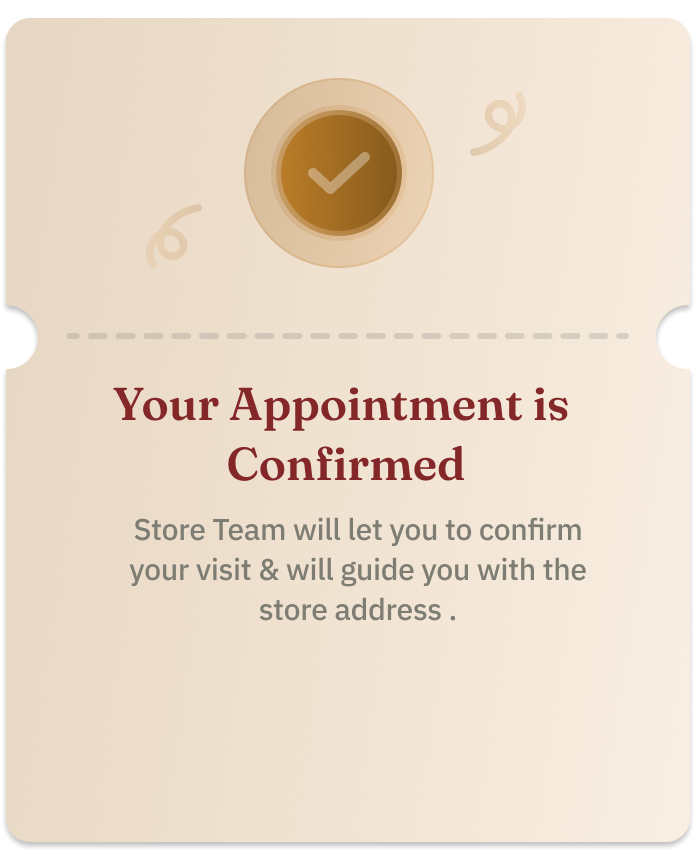
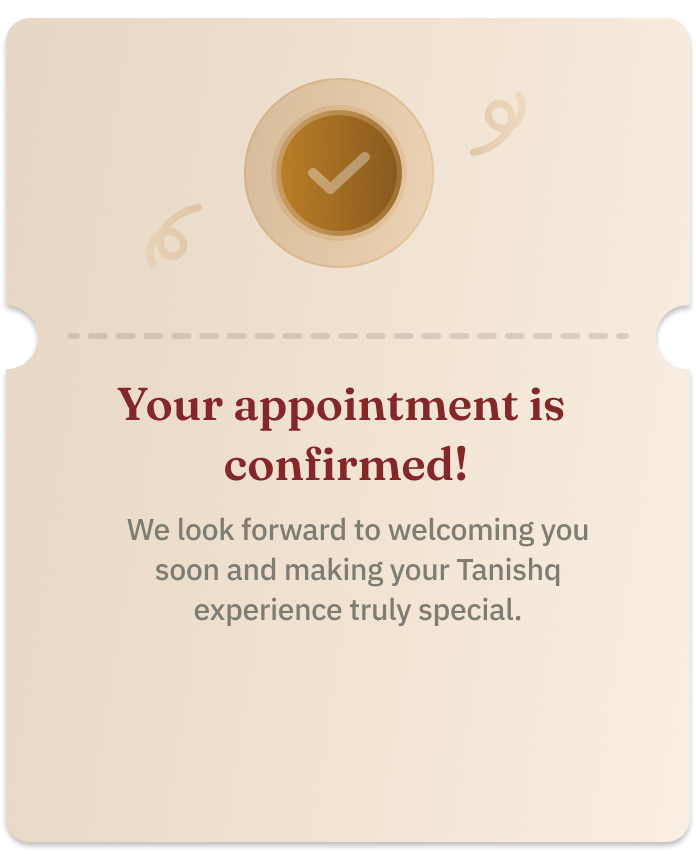
bap content image updated and deep store bap issue fixed

Changed region(s): [[0.181, 0.6089, 0.8448, 0.7307], [0.1509, 0.4567, 0.8147, 0.5785]]

diff --git a/src/pages/detail.jsx b/src/pages/detail.jsx
@@ -513,7 +513,7 @@ export default function Detailed() {
                             </div>
                           
                             <div className="md:w-[45%] md:h-full h-[300px]  MapWrapper md:my-0 my-5 w-[90%]">
-                            {storeDetail.storeClosingTime && <BookAnAppointment openingTime={storeDetail.modifiedOpeningTime} isOpen={BookAnAppointmentModal} storeCode={storeDetail.storeCode} storeName={storeDetail.storeName} setisOpen={setBookAnAppointmentModal} closingTime={storeDetail.modifiedClosingTime}/>}
+                            {storeDetail.modifiedClosingTime && <BookAnAppointment storeName={storename} openingTime={storeDetail.modifiedOpeningTime} isOpen={BookAnAppointmentModal} storeCode={storeDetail.storeCode} storeName={storeDetail.storeName} setisOpen={setBookAnAppointmentModal} closingTime={storeDetail.modifiedClosingTime}/>}
                                
                                 {((storeDetail.storeLatitude&&!isNaN(storeDetail.storeLatitude)||(storeDetail.storeLatitude&&!isNaN(storeDetail.storeLatitude)))) && 
                                 <Maps center={[...position]} loclink={storeDetail.storeLocationLink} isStore={true} remin="100%" style="md:h-[300px] md:min-h-[300px] min-h-[300px]" />}

diff --git a/src/component/bookAnAppointment.jsx b/src/component/bookAnAppointment.jsx
@@ -29,6 +29,9 @@ export default function BookAnAppointment({ activeStore, setIndividualStoreData,
         if (hours < 17) return 1;
         return 2;
     };
+    useEffect(() => {
+        setStep(1)
+    }, [storeName])
 
     const [activeDivision, setActiveDivision] = useState(getCurrentDivision());
 
